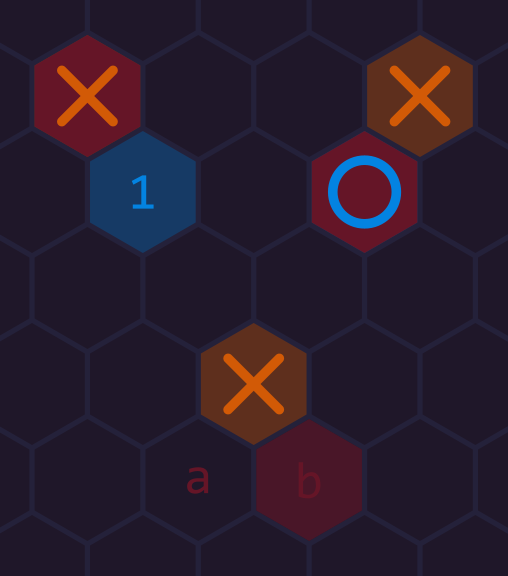
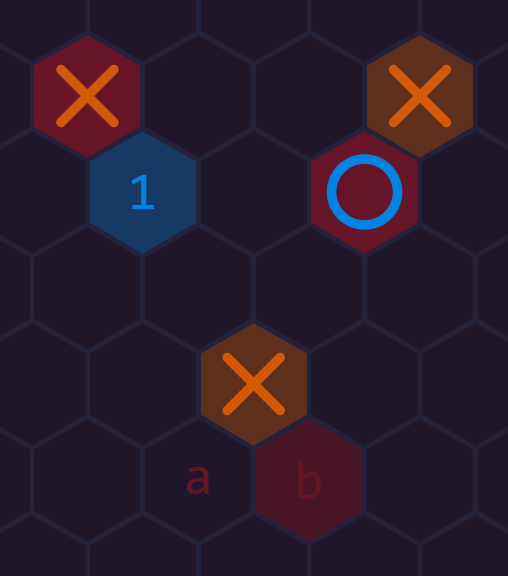
feat: add tyto theme

Changed region(s): [[0.6791, 0.2812, 0.7972, 0.4062], [0.6201, 0.25, 0.7382, 0.375]]

diff --git a/board/render/src/commonMain/kotlin/de/mineking/hexo/board/render/image/Theme.kt b/board/render/src/commonMain/kotlin/de/mineking/hexo/board/render/image/Theme.kt
@@ -75,6 +75,7 @@ interface Theme {
 enum class DefaultTheme(val theme: Theme) {
     HDS(BasicTheme.Default),
     HTTTX(HTTTXTheme),
+    Tyto(TytoTheme),
 }
 
 data class BasicTheme(
@@ -154,30 +155,25 @@ object HTTTXTheme : Theme {
     private val EMPTY_HIGHLIGHT_COLOR = Color.rgb(0x491628)
     private val LINE_HIGHLIGHT_COLOR = Color.rgba(0x88ff2720)
 
-    override val gap = 3.0
-    override val borderThickness = 0.0
+    override val gap = 1.0
+    override val borderThickness = 3.0
     override val lineThickness = 16.0
-    override val backgroundColor = BORDER_COlOR // cells have no border and non-transparent background -> background becomes effective border
+    override val backgroundColor = BACKGROUND_COLOR
 
     override fun LineHighlight.color() = Theme.ElementColors(LINE_HIGHLIGHT_COLOR, Color.Transparent)
 
     override fun Cell.backgroundColor() = Theme.ElementColors(
-        backgroundColor = when (owner) {
-            CellOwner.X -> PLAYER_X_CELL_COLOR
-            CellOwner.O -> PLAYER_O_CELL_COLOR
-            null -> BACKGROUND_COLOR
+        backgroundColor = when {
+            highlight != null && owner == null -> EMPTY_HIGHLIGHT_COLOR
+            highlight != null && owner != null -> OCCUPIED_HIGHLIGHT_COLOR
+            owner == CellOwner.X -> PLAYER_X_CELL_COLOR
+            owner == CellOwner.O -> PLAYER_O_CELL_COLOR
+            else -> BACKGROUND_COLOR
         },
-        borderColor = Color.Transparent,
+        borderColor = BORDER_COlOR,
     )
 
-    override fun Cell.highlightColor() = Theme.ElementColors(
-        backgroundColor = when {
-            highlight == null -> Color.Transparent
-            owner == null -> EMPTY_HIGHLIGHT_COLOR
-            else -> OCCUPIED_HIGHLIGHT_COLOR
-        },
-        borderColor = Color.Transparent,
-    )
+    override fun Cell.highlightColor() = Theme.ElementColors(Color.Transparent, Color.Transparent)
 
     private fun Cell.labelText() = label
         .takeIf { it.isNotBlank() }
@@ -231,5 +227,42 @@ object HTTTXTheme : Theme {
             }
             else -> return
         }
+    }
+}
+
+object TytoTheme : Theme {
+    private val BACKGROUND_COLOR = Color.rgb(0x0d0f0e)
+    private val EMPTY_BORDER_COLOR = Color.rgb(0x2e2a1d)
+
+    private val PLAYER_X_CELL_COLOR = Color.rgb(0xf08a3c)
+    private val PLAYER_O_CELL_COLOR = Color.rgb(0x3fb6d9)
+    private val EMPTY_CELL_COLOR = Color.rgb(0x101211)
+
+    private val DECORATION_COLOR = Color.rgba(0x88ffffff)
+
+    override val gap = 1.0
+    override val borderThickness = 3.0
+
+    override val lineThickness = 0.0
+    override val backgroundColor = BACKGROUND_COLOR
+
+    override fun LineHighlight.color() = Theme.ElementColors(Color.Transparent, Color.Transparent)
+    override fun Cell.highlightColor() = Theme.ElementColors(Color.Transparent, Color.Transparent)
+
+    override fun Cell.backgroundColor(): Theme.ElementColors {
+        val color = when (owner) {
+            CellOwner.X -> PLAYER_X_CELL_COLOR
+            CellOwner.O -> PLAYER_O_CELL_COLOR
+            null -> EMPTY_CELL_COLOR
+        }
+        return Theme.ElementColors(color, EMPTY_BORDER_COLOR)
+    }
+
+    override fun Cell.label() = null
+
+    override fun Cell.drawDecoration(point: Point, renderer: InternalBoardRenderer) {
+        if (!focused) return
+        val hex = point.createHex(renderer.hexSize * 0.75)
+        renderer.renderingContext.drawPolygon(hex, Color.Transparent, Stroke(DECORATION_COLOR, renderer.borderThickness * 2))
     }
 }

diff --git a/board/render/src/commonMain/kotlin/de/mineking/hexo/board/render/image/SvgRenderingContext.kt b/board/render/src/commonMain/kotlin/de/mineking/hexo/board/render/image/SvgRenderingContext.kt
@@ -182,11 +182,11 @@ class SvgRenderingContext(private val topLeftCorner: Point) : RenderingContext {
         drawLinePart(stroke)
     }
 
-    override fun drawPolygon(shape: Polygon, color: Color?, outline: Stroke?) = configure {
+    override fun drawPolygon(shape: Polygon, color: Color, outline: Stroke?) = configure {
         polygon {
             points = shape.points.map { (x, y) -> SvgPoint(x, y) }
 
-            if (color != null) fill(color.svg)
+            fill(color.svg)
             if (outline != null) {
                 stroke(outline.color.svg)
                 strokeWidth = outline.width.none

diff --git a/board/render/src/jsMain/kotlin/de/mineking/hexo/board/render/image/CanvasRenderingContext.kt b/board/render/src/jsMain/kotlin/de/mineking/hexo/board/render/image/CanvasRenderingContext.kt
@@ -66,12 +66,12 @@ class CanvasRenderingContext(val canvas: CanvasRenderingContext2D) : RenderingCo
         canvas.restore()
     }
 
-    override fun drawPolygon(shape: Polygon, color: Color?, outline: Stroke?) {
+    override fun drawPolygon(shape: Polygon, color: Color, outline: Stroke?) {
         canvas.beginPath()
         shape.trace()
         canvas.closePath()
 
-        if (color != null) {
+        if (!color.isTransparent()) {
             canvas.fillStyle = color.css
             canvas.fill()
         }

diff --git a/board/render/src/jvmMain/kotlin/de/mineking/hexo/board/render/image/AwtRenderingContext.kt b/board/render/src/jvmMain/kotlin/de/mineking/hexo/board/render/image/AwtRenderingContext.kt
@@ -71,10 +71,10 @@ class AwtRenderingContext(private val graphics: Graphics2D) : RenderingContext {
         }
     }
 
-    override fun drawPolygon(shape: Polygon, color: Color?, outline: Stroke?) {
+    override fun drawPolygon(shape: Polygon, color: Color, outline: Stroke?) {
         val hex = shape.toShape()
 
-        if (color != null) {
+        if (!color.isTransparent()) {
             graphics.color = color.awt
             graphics.fill(hex)
         }

diff --git a/board/render/src/commonMain/kotlin/de/mineking/hexo/board/render/image/RenderingContext.kt b/board/render/src/commonMain/kotlin/de/mineking/hexo/board/render/image/RenderingContext.kt
@@ -14,7 +14,7 @@ data class Stroke(val color: Color, val width: Float)
 
 interface RenderingContext {
     fun drawLine(from: Point, to: Point, stroke: Stroke, outline: Stroke? = null)
-    fun drawPolygon(shape: Polygon, color: Color?, outline: Stroke? = null)
+    fun drawPolygon(shape: Polygon, color: Color, outline: Stroke? = null)
     fun drawString(point: Point, text: String, fontSize: Float, font: FontType, color: Color)
 }
 